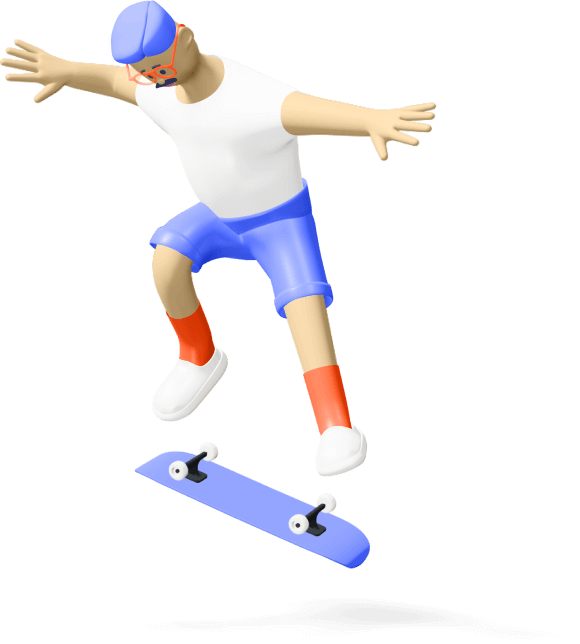
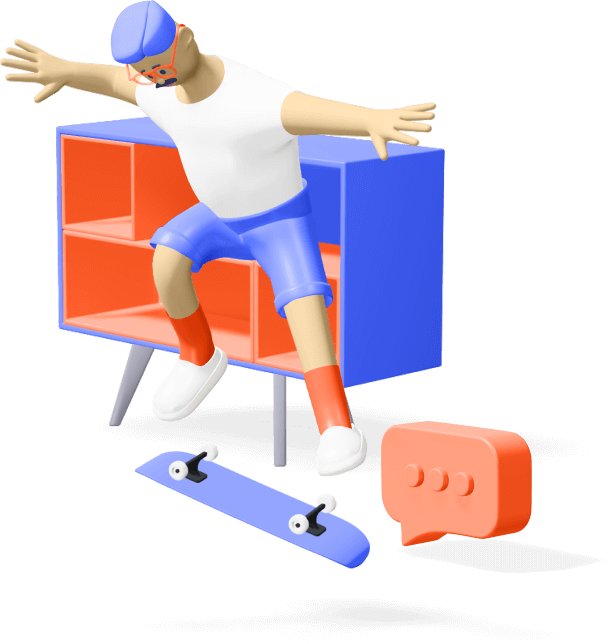
add section about

diff --git a/index.html b/index.html
@@ -27,7 +27,29 @@
         </div>
       </div>
     </header>
-    <main></main>
+    <main>
+      <section id="about" class="about section">
+        <div class="container">
+          <div class="about__text">
+            <h1>Grow your subscription business</h1>
+            <p>
+              Outcome-centered products that reduce churn, optimize pricing, and
+              grow your subscription business end-to-end.
+            </p>
+            <div class="about__text--buttons">
+              <button class="btn btn-blue">Get Started</button>
+              <button class="down">&#8595;</button>
+            </div>
+          </div>
+          <div class="about__image">
+            <img
+              src="./images/contant-1.png"
+              alt="Grow your subscription business"
+            />
+          </div>
+        </div>
+      </section>
+    </main>
     <footer></footer>
   </body>
 </html>

diff --git a/css/styles.css b/css/styles.css
@@ -73,6 +73,30 @@ h4 {
   cursor: pointer;
 }
 
+.btn-blue {
+  background: #5454d4;
+}
+
+.down {
+  height: 60px;
+  width: 60px;
+  background: #ffffff;
+  border: 1px solid #e7e7e7;
+  border-radius: 50%;
+  color: #19191b;
+  font-size: 40px;
+  cursor: pointer;
+}
+
+.section {
+  padding: 100px 0;
+}
+
+img {
+  max-width: 100%;
+  height: auto;
+}
+
 /* Header */
 
 .header {
@@ -135,4 +159,34 @@ h4 {
 
 .header__button {
   float: right;
+}
+
+/* About */
+
+.about .container {
+  overflow: hidden;
+}
+
+.about__text {
+  float: left;
+  width: 44%;
+  padding-top: 90px;
+}
+
+.about__text h1 {
+  margin: 0 0 30px;
+}
+
+.about__text p {
+  margin: 0 0 50px;
+}
+
+.about__text--buttons .btn {
+  float: left;
+  margin-right: 40px;
+}
+
+.about__image {
+  float: right;
+  width: 50%;
 }
